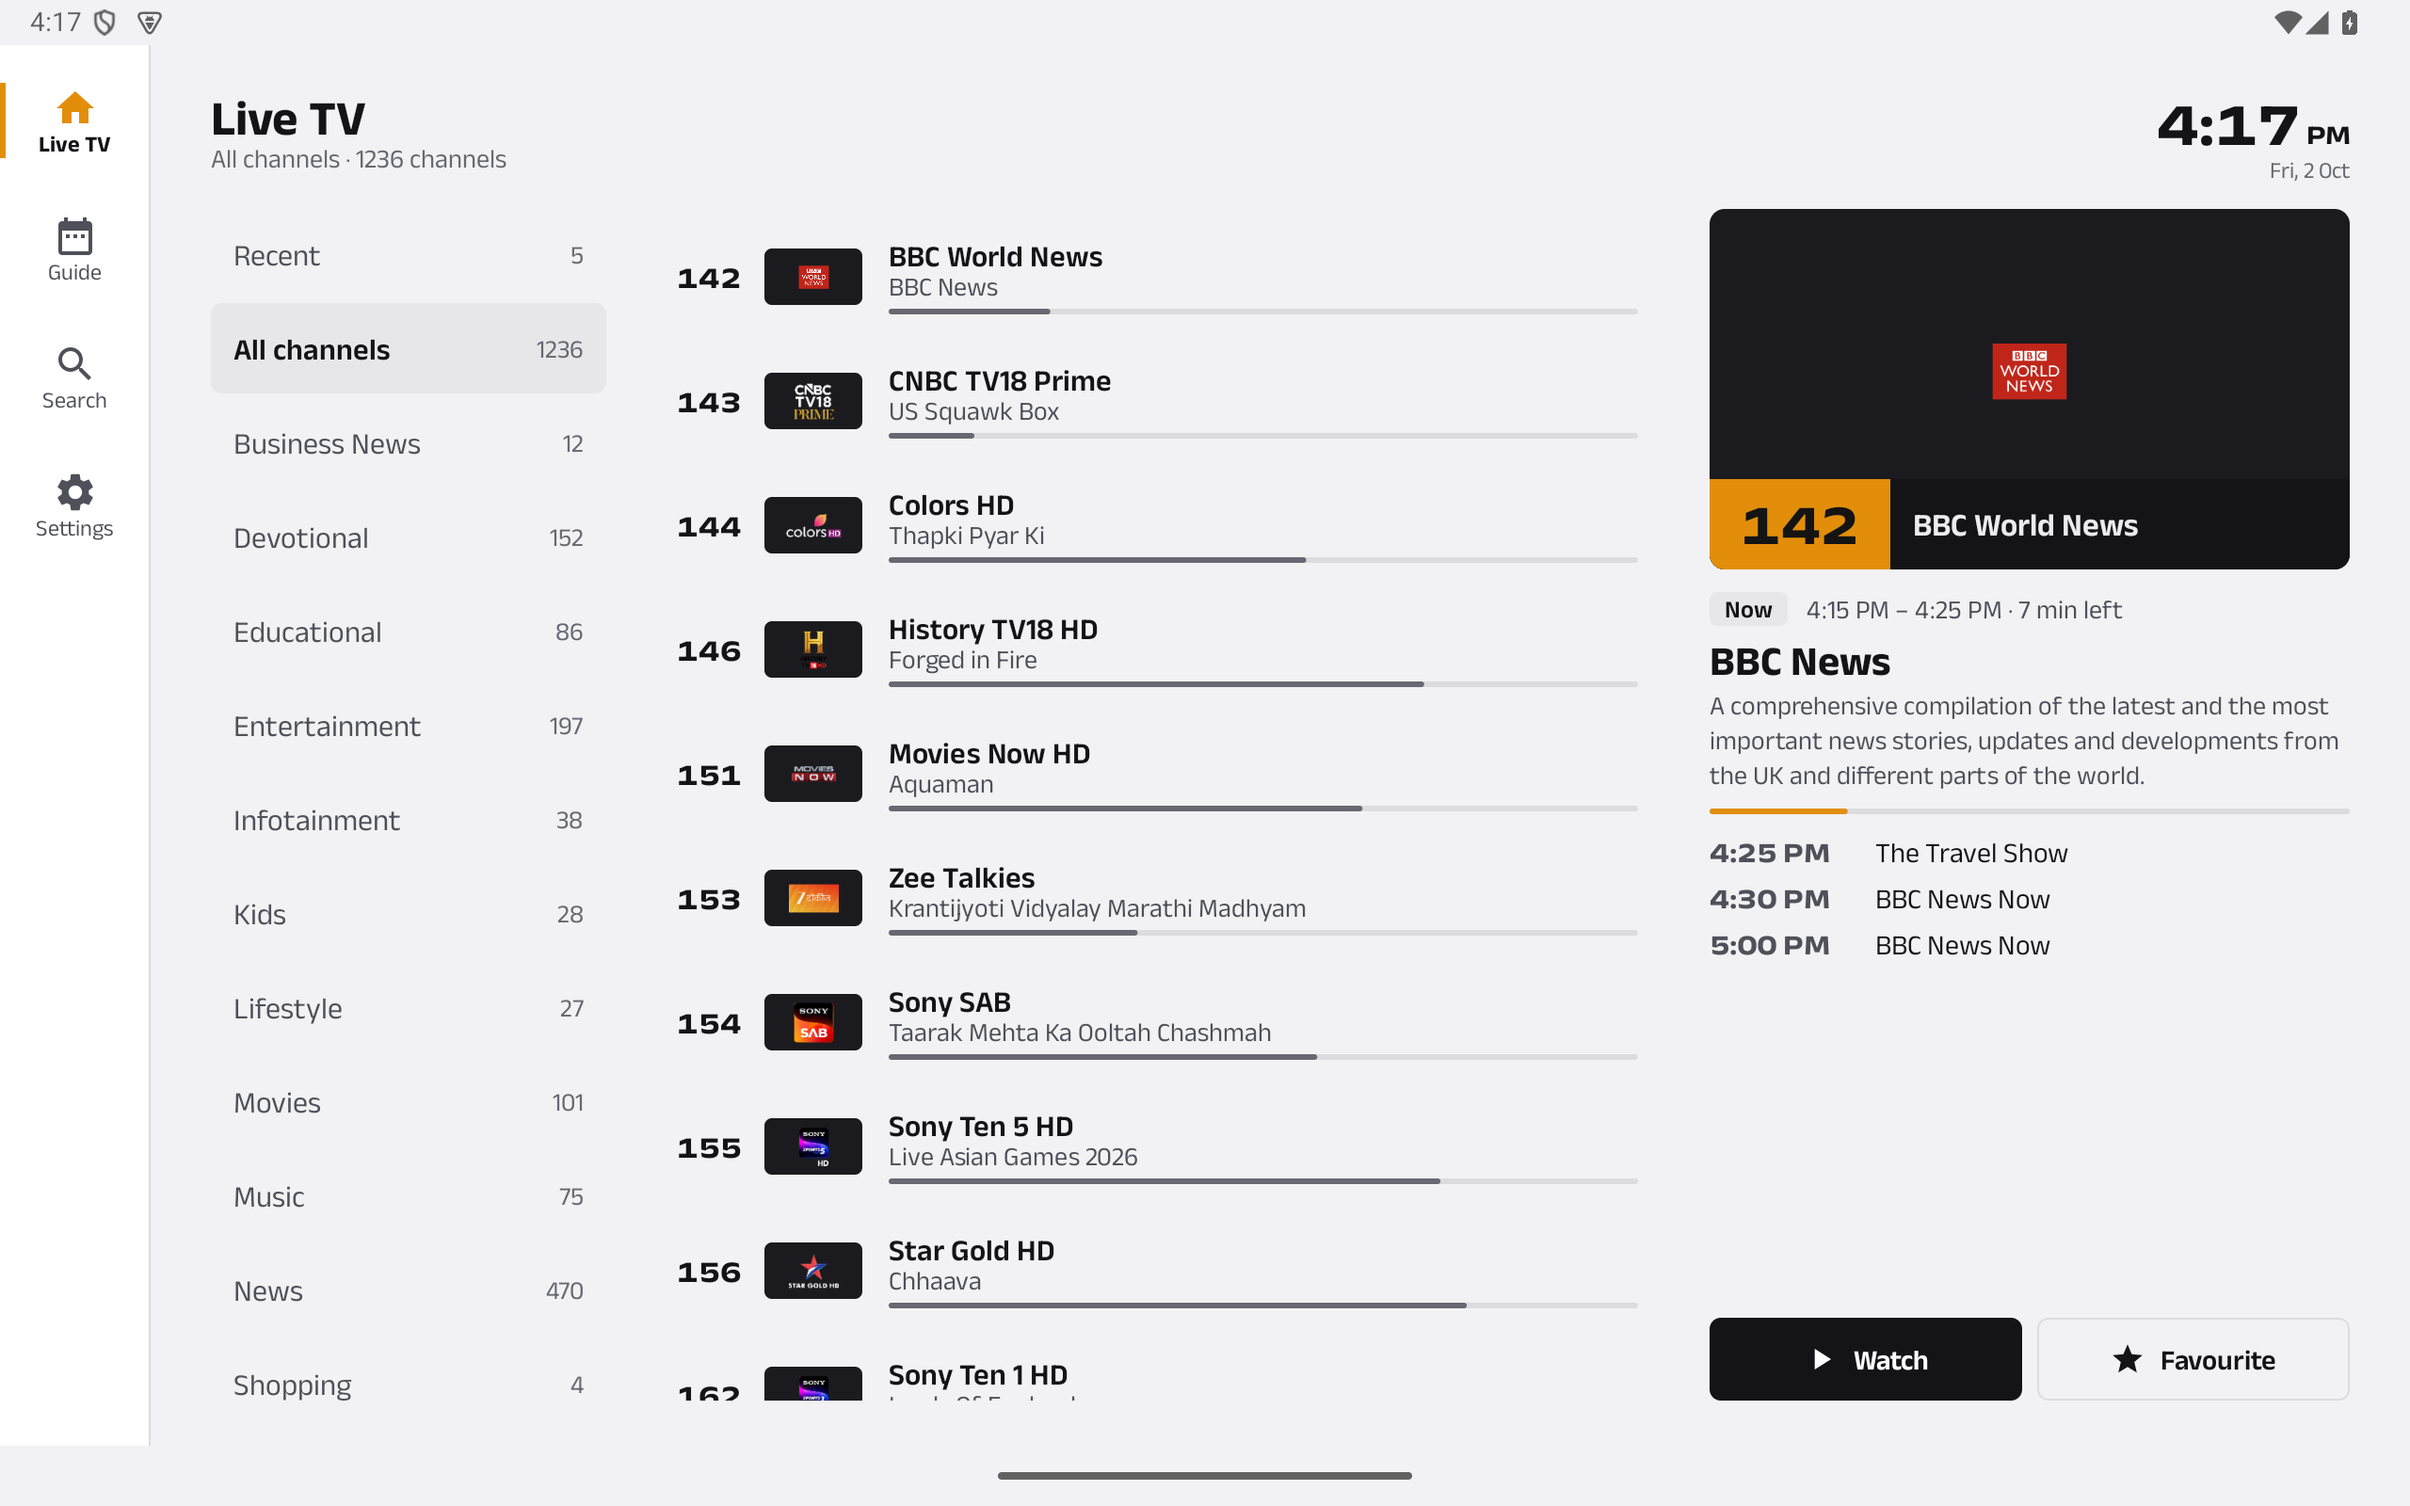
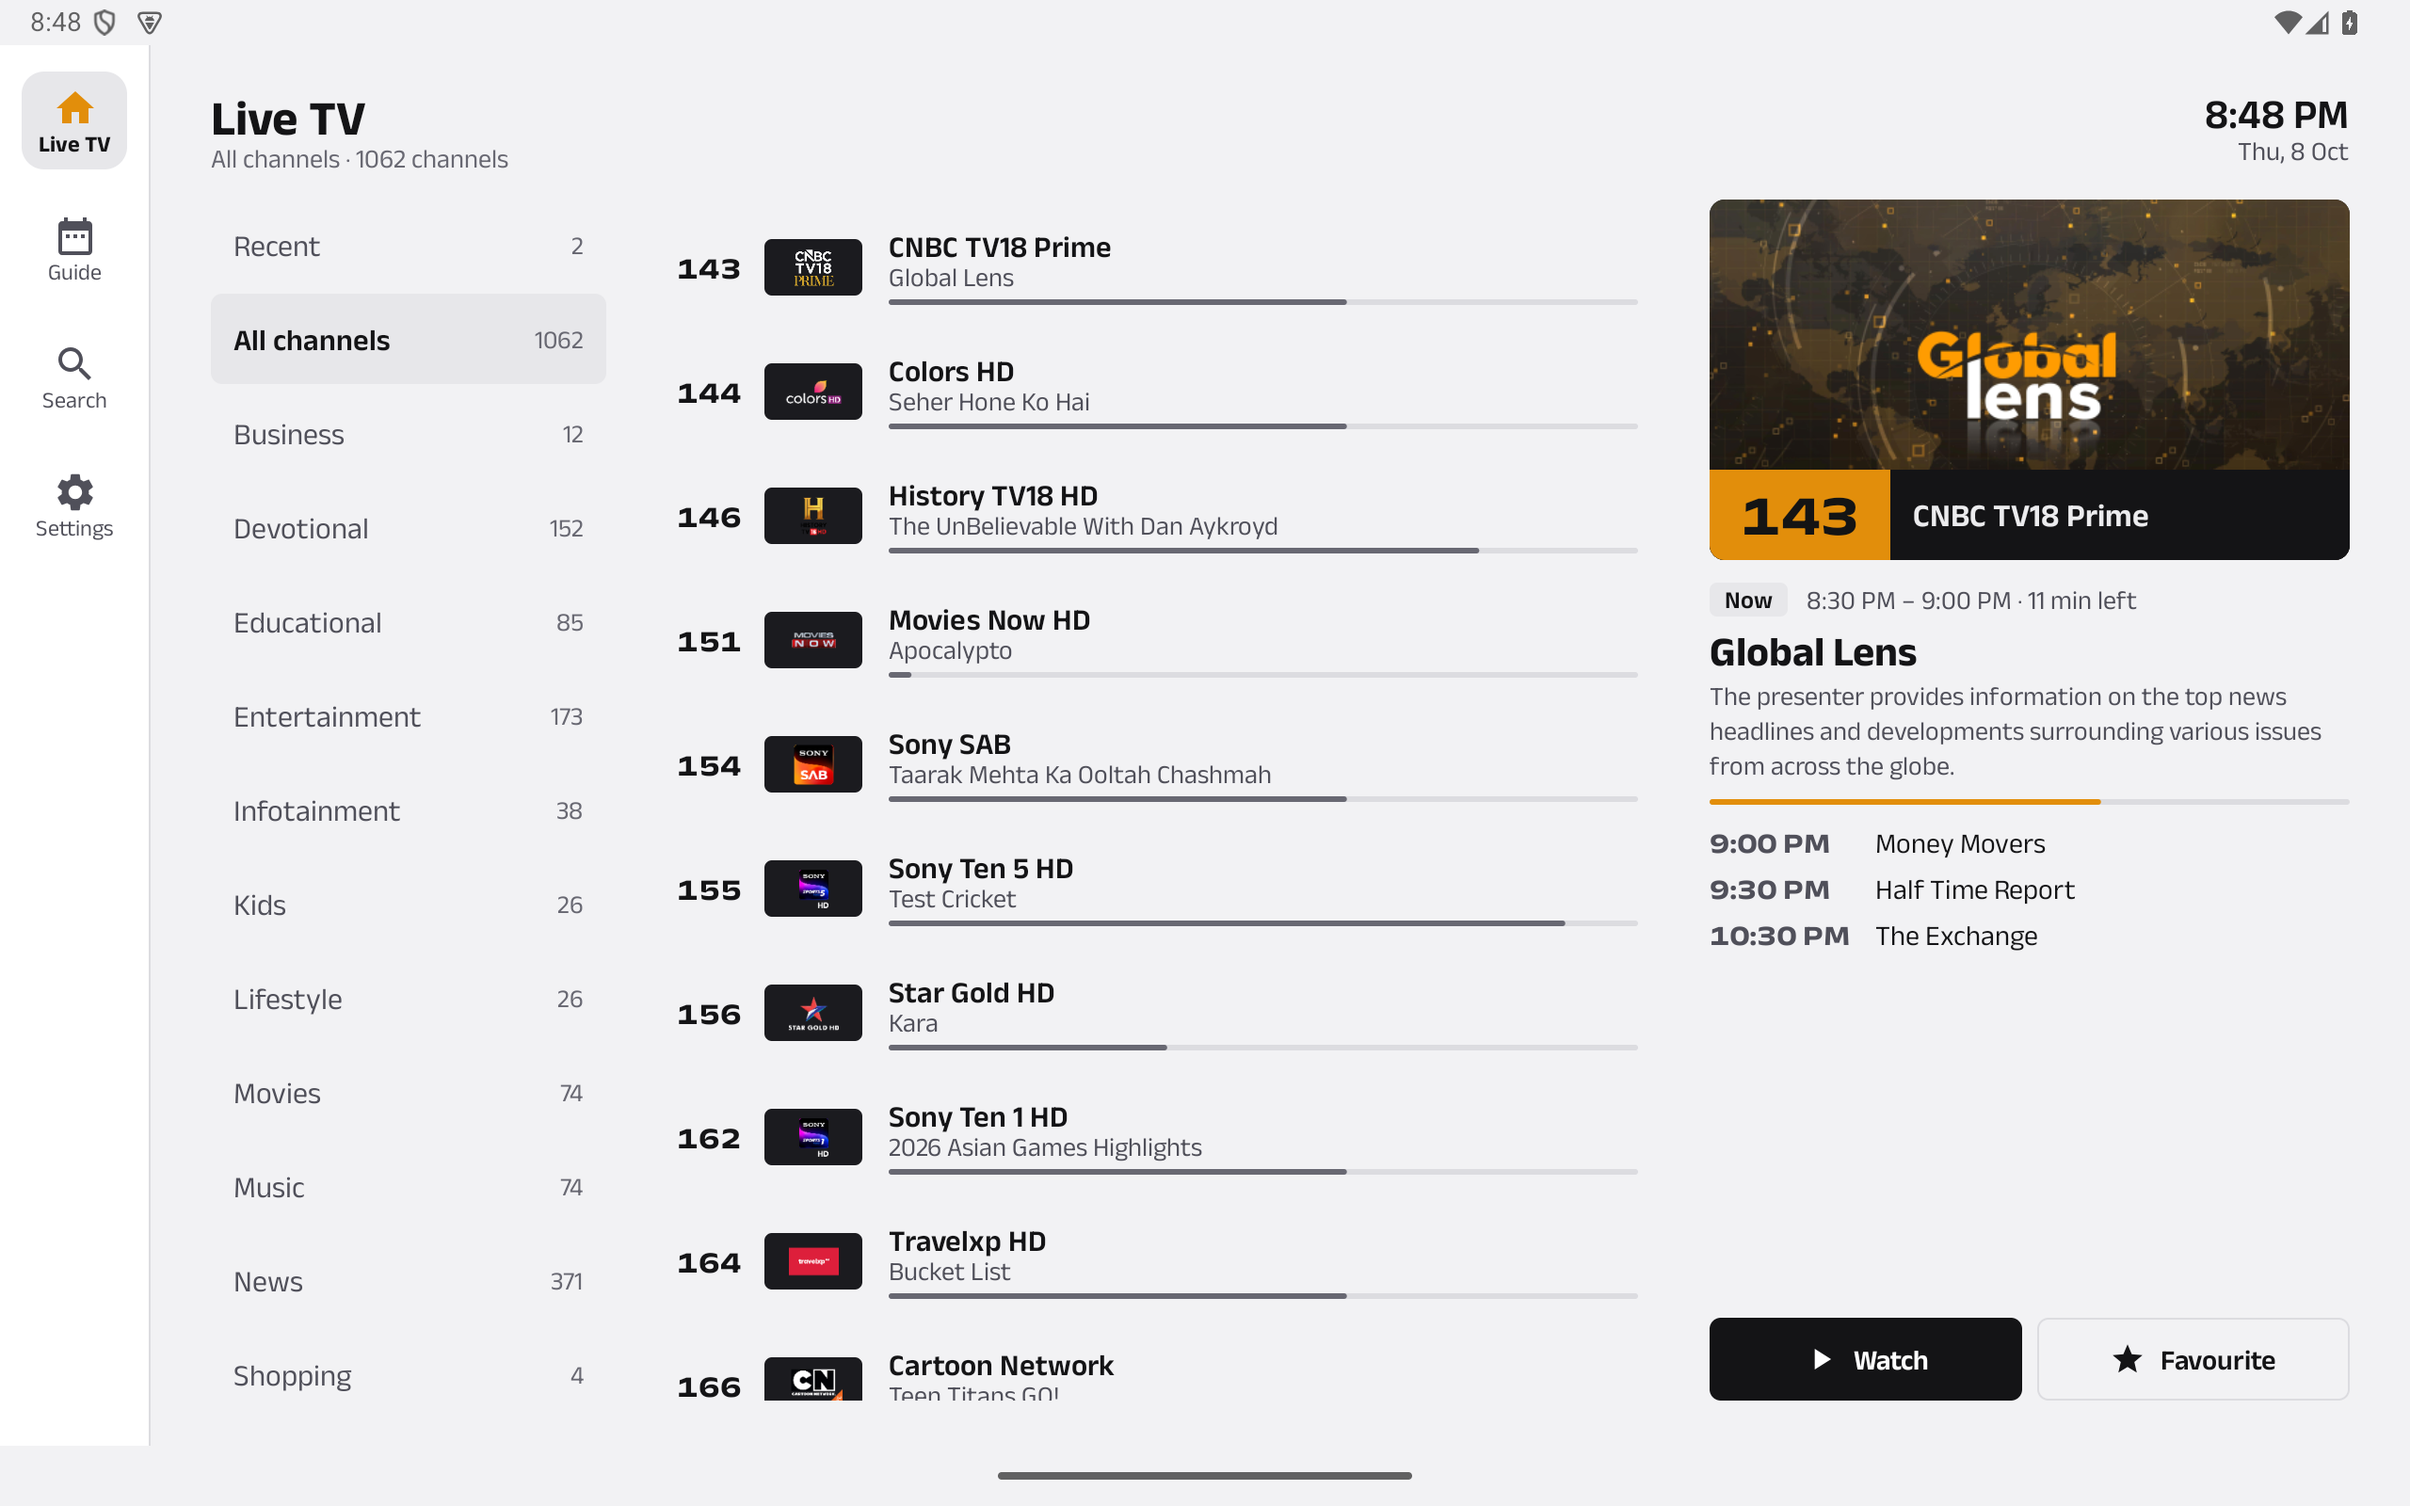
README: fresh v2 screenshots of the current UI, new stable 1.5 (v1) screenshots

diff --git a/README.md b/README.md
@@ -27,18 +27,19 @@ A ground-up redesign called **"Everyday"**. It has a calm near-black or light lo
 ### On the TV
 
 <div align="center">
-  <img src="screenshot/v2/tv-home.png" width="49%" alt="TV home: categories, channels, and what's on now" />
+  <img src="screenshot/v2/tv-home.png" width="49%" alt="TV home: categories, channels, and the running show with its picture" />
   <img src="screenshot/v2/tv-guide.png" width="49%" alt="Guide with the Replay category: past shows you can watch again" />
-  <img src="screenshot/v2/tv-player.png" width="49%" alt="Player info strap with the big channel number" />
-  <img src="screenshot/v2/tv-browse.png" width="49%" alt="Channel browser: tiles over the picture" />
+  <img src="screenshot/v2/tv-player.png" width="49%" alt="Channel card: logo, show, time left and what's next" />
+  <img src="screenshot/v2/tv-browse.png" width="49%" alt="Channel browser: tiles over the picture, the focused one shows its name" />
   <img src="screenshot/v2/tv-paused-seek.png" width="49%" alt="Paused live TV with the seek bar and Live button" />
   <img src="screenshot/v2/tv-options.png" width="49%" alt="Options panel: language, quality, voice boost, sleep" />
+  <img src="screenshot/v2/tv-controls.png" width="49%" alt="Controls while live: no seek bar until you need it" />
 </div>
 
 - **What's on now, at a glance.** Every channel shows its number, logo, the show and time left. Press **OK** to watch.
 - **Guide with replays.** A time grid with a gentle "now" line. The **Replay** category lists channels Jio lets you watch again: press OK on a past show to watch it from the start, up to 7 days back.
 - **Pause and rewind live TV.** Pause keeps your place. Use ←/→ to rewind or skip, and **Live** to jump back.
-- **The channel strap.** Change channel and a broadcast-style strap shows the big number, the show, "Series · Drama · U · Hindi", time left and what's next.
+- **The channel card.** Change channel and a wide, see-through card shows the logo, number, show, time left and what's next.
 - **Browse without stopping the show.** Press ← to slide channel tiles over the picture; ↑ ↓ change category.
 - **One clear Options panel (→).** Language, picture quality in plain words, aspect, Voice Boost, sleep timer and favourite.
 - **Your remote, your buttons.** Settings → Remote buttons: put any action on any button (holding a button counts too). There are profiles for Standard, Fire TV, Basic and Air-mouse remotes.
@@ -53,8 +54,10 @@ A ground-up redesign called **"Everyday"**. It has a calm near-black or light lo
   <img src="screenshot/v2/phone-home-light.png" width="19%" alt="Phone home, light" />
 </div>
 <div align="center">
+  <img src="screenshot/v2/tablet-home.png" width="49%" alt="Tablet home with the running show's picture" />
   <img src="screenshot/v2/tablet-player.png" width="49%" alt="Tablet player: video, details and channels side by side" />
   <img src="screenshot/v2/tablet-mini.png" width="49%" alt="Tablet with the floating mini player" />
+  <img src="screenshot/v2/phone-landscape.png" width="49%" alt="Phone landscape: small controls, the picture stays clear" />
 </div>
 
 - **A YouTube-style player.**
@@ -205,17 +208,18 @@ The v2 beta lives on the [`v2-lab`](https://github.com/F-e-n-y-x/JioTV-AndroidTV
 
 ---
 
-<details>
-<summary><b>📸 Stable 1.5.x screenshots</b></summary>
+## 📸 Stable 1.5 (v1)
+
+The stable app, version 1.5.x, on a TV.
+
 <div align="center">
-  <img src="screenshot/ui_screenshot_1.png" width="32%" alt="Home" />
-  <img src="screenshot/ui_screenshot_2.png" width="32%" alt="Channels" />
-  <img src="screenshot/ui_screenshot_3.png" width="32%" alt="Player" />
-  <img src="screenshot/ui_screenshot_4.png" width="32%" alt="EPG" />
-  <img src="screenshot/ui_screenshot_5.png" width="32%" alt="Settings" />
-  <img src="screenshot/ui_screenshot_6.png" width="32%" alt="Player settings" />
+  <img src="screenshot/v1/tv-home.png" width="49%" alt="Stable home: channel grid with favourites starred" />
+  <img src="screenshot/v1/tv-guide.png" width="49%" alt="Stable guide view: now playing and what's next" />
+  <img src="screenshot/v1/tv-favourites.png" width="49%" alt="Stable favourites" />
+  <img src="screenshot/v1/tv-channel-menu.png" width="49%" alt="Hold OK on a channel: watch or add to favourites" />
+  <img src="screenshot/v1/tv-settings.png" width="49%" alt="Stable settings" />
+  <img src="screenshot/v1/tv-settings-playback.png" width="49%" alt="Playback settings: Up arrow = next channel, reverse CH+/CH-" />
 </div>
-</details>
 
 <details>
 <summary><b>📝 Changelog</b></summary>
